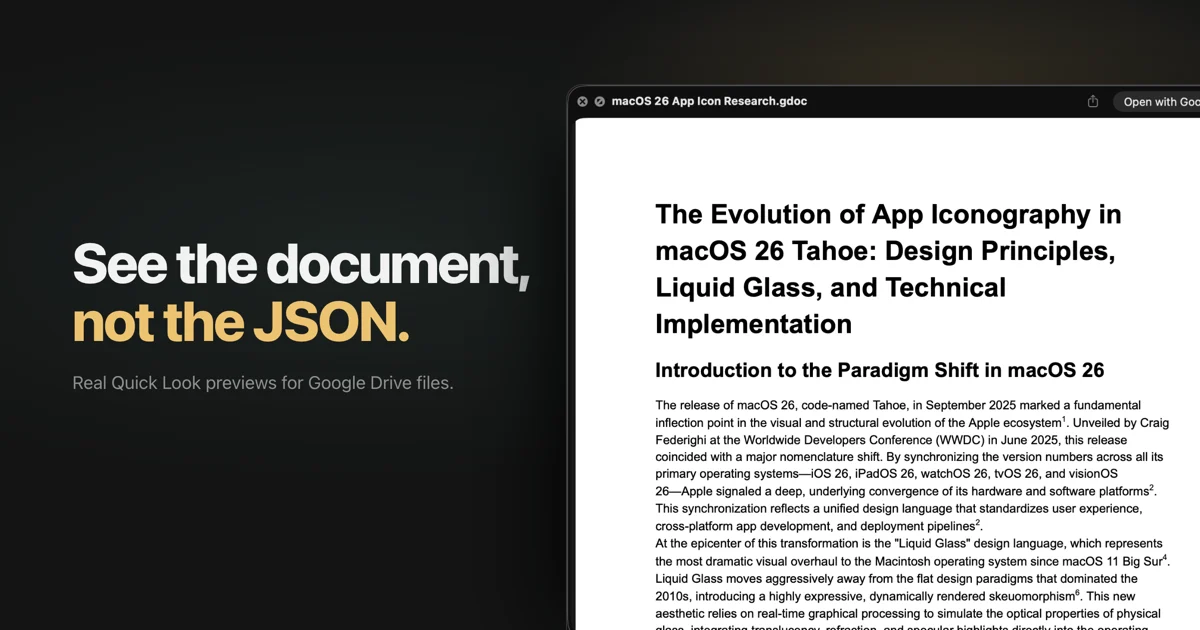
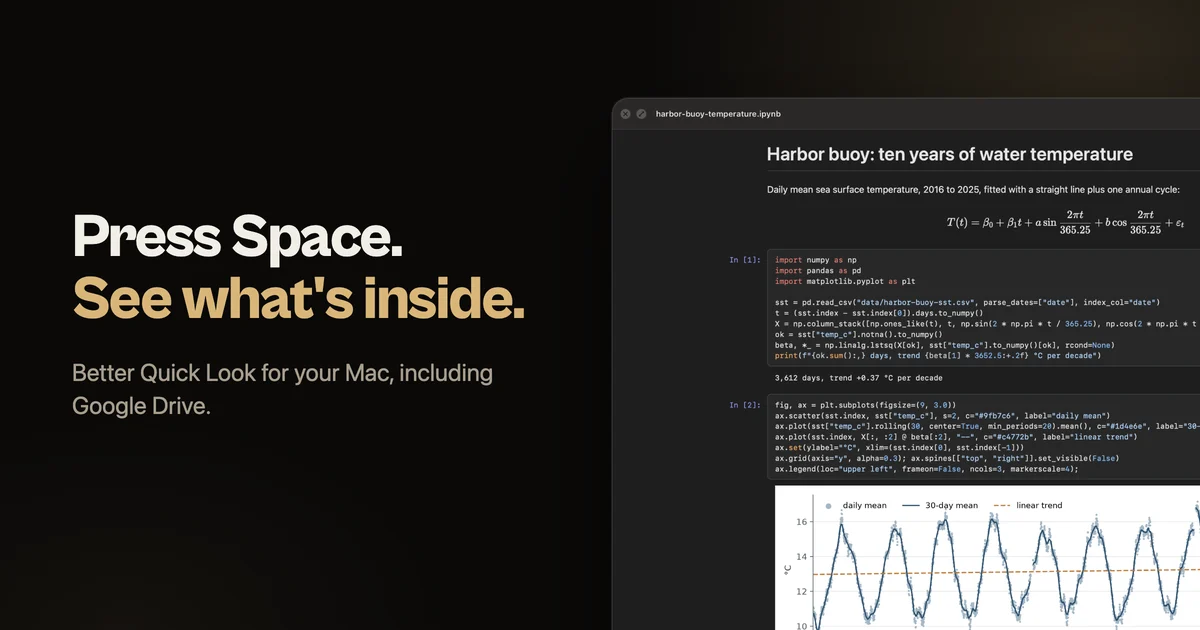
Give Spyglass a new shelf cover
The old cover still said Real Quick Look previews for Google Drive files. The new one is the same composition as the Spyglass social card: the hero headline beside a notebook open in Quick Look.

diff --git a/index.html b/index.html
@@ -275,7 +275,7 @@ a:focus-visible{outline:2px solid var(--ink);outline-offset:4px;border-radius:8p
 
         <a class="book" href="./spyglass/">
           <div class="cover">
-            <img src="./assets/spyglass-cover.webp" alt="Spyglass showing a Google Doc in Quick Look instead of raw JSON" width="1200" height="630" decoding="async">
+            <img src="./assets/spyglass-cover.webp" alt="The Spyglass cover: Press Space, see what's inside, beside a Jupyter notebook open in Quick Look" width="1200" height="630" decoding="async">
           </div>
           <h2>Spyglass</h2>
           <p>Press Space on a notebook, a zip or a Google Doc and see what's inside.</p>
